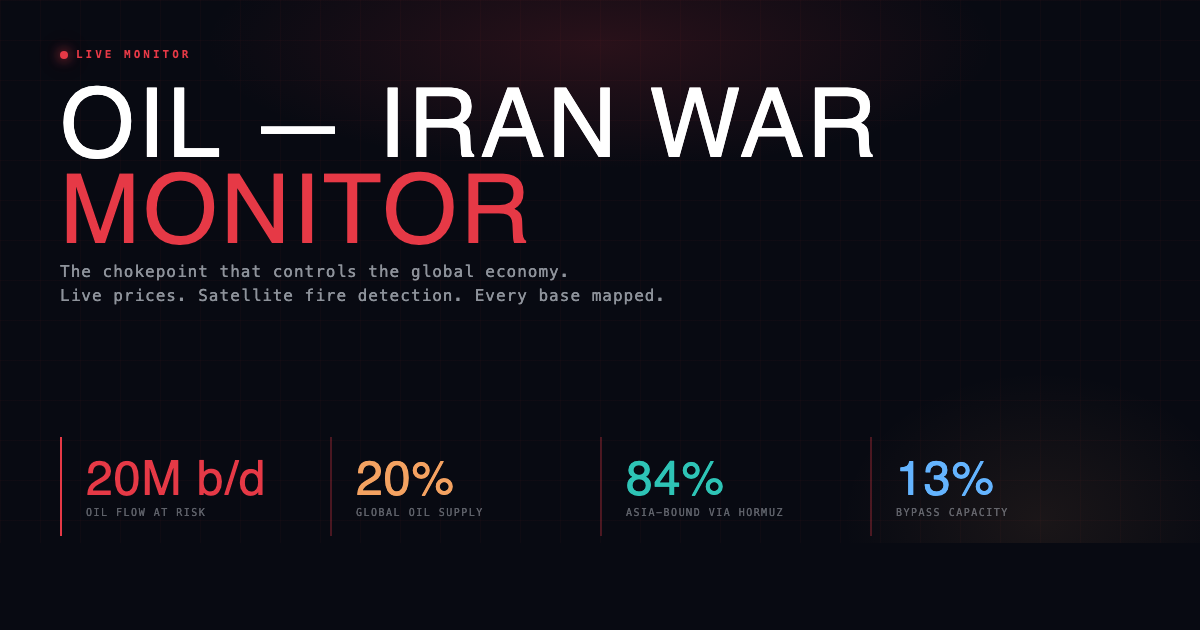
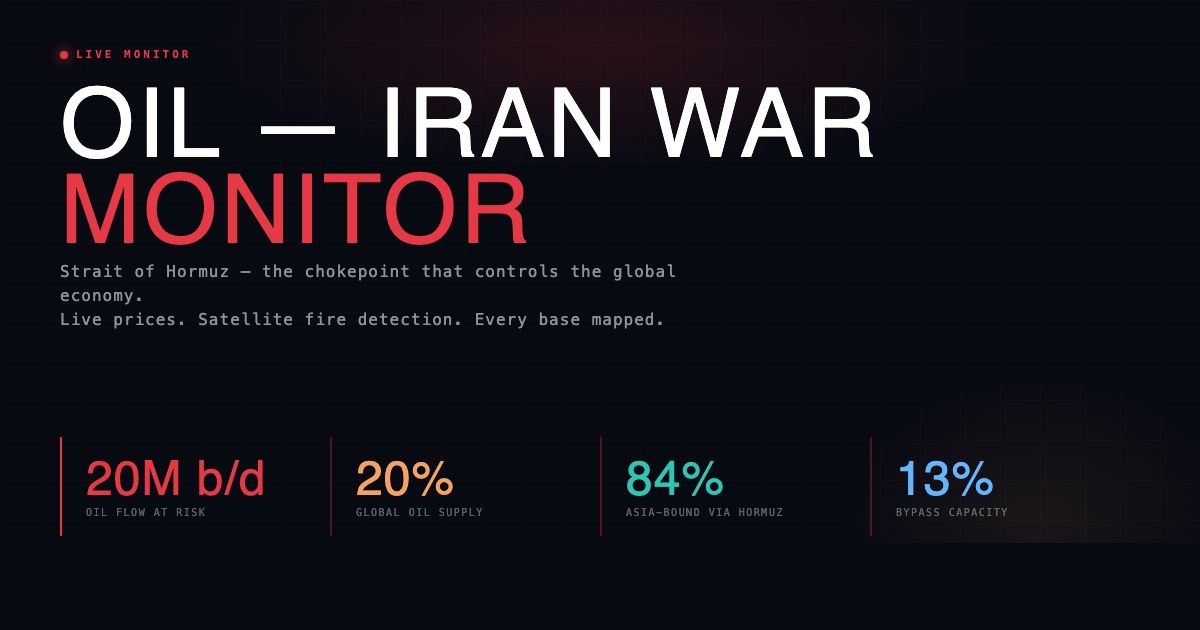
Update tagline: Strait of Hormuz — the chokepoint...

Changed region(s): [[0.0308, 0.4222, 0.555, 0.5127]]

diff --git a/thumbnail.html b/thumbnail.html
@@ -135,7 +135,7 @@ body::before {
     <div class="title">OIL — IRAN WAR<br><span>MONITOR</span></div>
 
     <div class="tagline">
-      The chokepoint that controls the global economy.<br>
+      Strait of Hormuz — the chokepoint that controls the global economy.<br>
       Live prices. Satellite fire detection. Every base mapped.
     </div>
 
